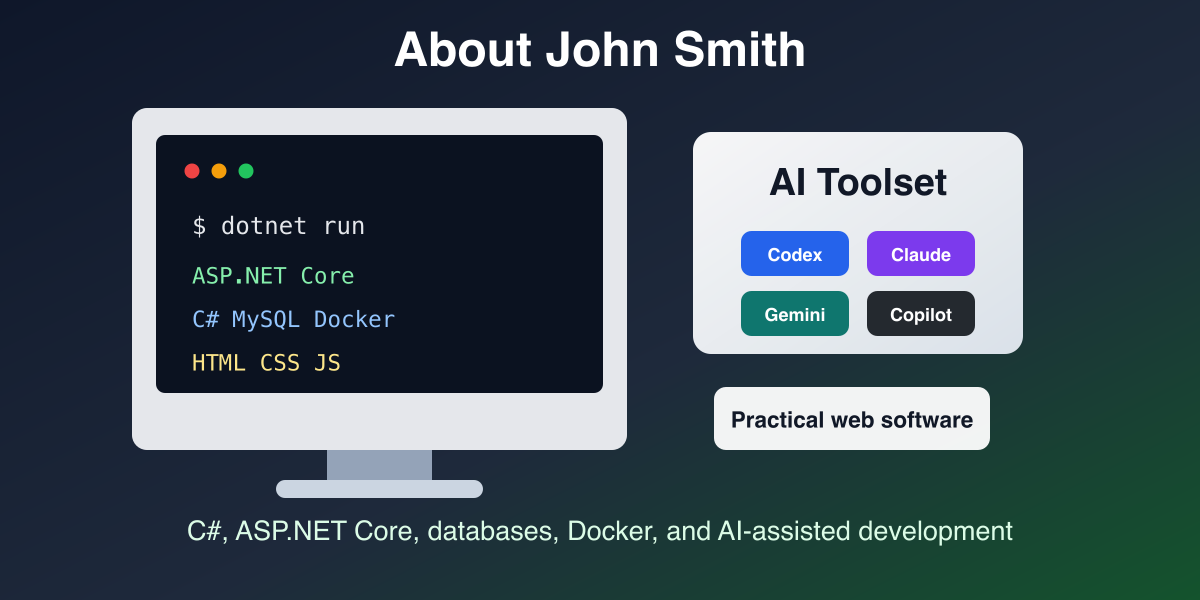
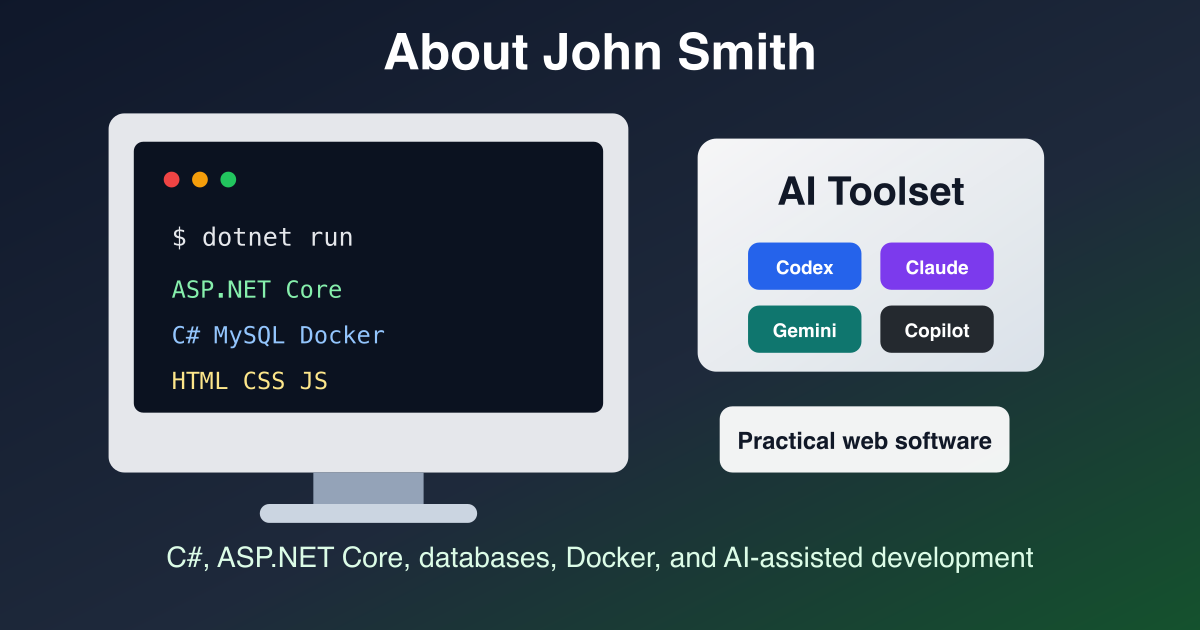
docs: use recommended open graph image size

diff --git a/AGENTS.md b/AGENTS.md
@@ -16,10 +16,12 @@ When creating or updating a blog post, use the same cover-image pattern as recen
    cover_image: /images/example-cover.svg
    ```
 
-3. Generate a PNG social image from the SVG using the local macOS/Homebrew tool:
+3. Generate a 1200x630 PNG social image from the SVG using local
+   macOS/Homebrew tools:
 
    ```bash
-   rsvg-convert -w 1200 -h 600 images/example-cover.svg -o images/example-cover.png
+   rsvg-convert -h 630 images/example-cover.svg -o /tmp/example-cover-1260x630.png
+   magick /tmp/example-cover-1260x630.png -gravity center -crop 1200x630+0+0 +repage images/example-cover.png
    ```
 
 4. Add `image` front matter that points to the generated PNG:
@@ -44,6 +46,7 @@ When creating or updating a blog post, use the same cover-image pattern as recen
    - `meta name="description"`
    - `og:image` using the PNG file
    - `twitter:card` set to `summary_large_image`
+   - the PNG image is 1200x630
 
 7. Build before finishing:
 
